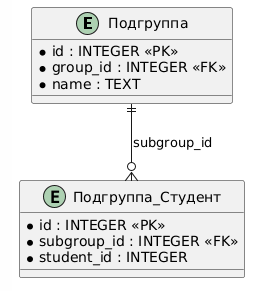
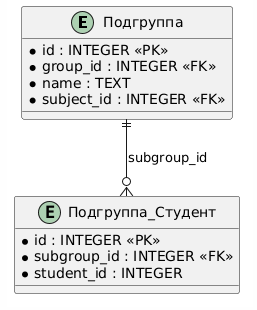
.

Changed region(s): [[0.0312, 0.0, 0.9688, 0.9588]]

diff --git a/S8/models.py b/S8/models.py
@@ -1,20 +1,16 @@
 """
-Модели для сервиса подгрупп (Subgroup Service) - Вариант №8
-Синхронизировано с doc.md (без subgroup_types, добавлена связь со студентами)
+Модели для сервиса подгрупп (Subgroup Service) — Политехнический колледж Кострома
+Связь с предметом (subject_id) для определения совместимости подгрупп в расписании
 """
 
 from peewee import *
 import os
 
-# Путь к файлу базы данных
 DB_PATH = 'subgroup_service.db'
-
-# Подключение к БД
 db = SqliteDatabase(DB_PATH)
 
 
 class BaseModel(Model):
-    """Базовый класс модели с подключением к БД"""
     class Meta:
         database = db
 
@@ -22,35 +18,35 @@ class BaseModel(Model):
 class Subgroup(BaseModel):
     """
     Модель подгруппы
-    Соответствует таблице 'subgroups' из doc.md
+    subject_id — внешний ключ к предмету (дисциплине)
     """
     id = AutoField()
-    name = CharField(verbose_name='Название подгруппы')  
-    group_id = IntegerField(verbose_name='ID группы')    # Внешний ключ к группе
+    group_id = IntegerField(verbose_name='ID группы')
+    name = CharField(verbose_name='Название подгруппы')
+    subject_id = IntegerField(verbose_name='ID предмета')  # ← вместо category
     
     class Meta:
         table_name = 'subgroups'
         indexes = (
-            (('group_id', 'name'), True),  # Уникальная комбинация (group_id, name)
+            (('group_id', 'name'), True),
         )
     
     def __str__(self):
-        return f"Подгруппа {self.name} (группа {self.group_id})"
+        return f"Подгруппа {self.name} (предмет {self.subject_id}) - группа {self.group_id}"
 
 
 class SubgroupStudent(BaseModel):
     """
     Модель связи подгруппы и студента
-    Соответствует таблице 'subgroup_students' из doc.md
     """
     id = AutoField()
-    subgroup_id = IntegerField(verbose_name='ID подгруппы')  # Внешний ключ к Subgroup
-    student_id = IntegerField(verbose_name='ID студента')    # Внешний ключ к Student
+    subgroup_id = IntegerField(verbose_name='ID подгруппы')
+    student_id = IntegerField(verbose_name='ID студента')
     
     class Meta:
         table_name = 'subgroup_students'
         indexes = (
-            (('subgroup_id', 'student_id'), True),  # Уникальная пара подгруппа-студент
+            (('subgroup_id', 'student_id'), True),
         )
     
     def __str__(self):
@@ -58,55 +54,35 @@ class SubgroupStudent(BaseModel):
 
 
 def init_db():
-    """
-    Функция инициализации базы данных
-    Создаёт таблицы, если они не существуют
-    """
     try:
-        # Подключаемся к БД
         db.connect()
-        
-        # Создаём таблицы (только Subgroup и SubgroupStudent)
         db.create_tables([Subgroup, SubgroupStudent], safe=True)
-        
         print(f"✅ База данных '{DB_PATH}' успешно инициализирована")
         print(f"   - Создана таблица: {Subgroup._meta.table_name}")
         print(f"   - Создана таблица: {SubgroupStudent._meta.table_name}")
-        
     except Exception as e:
         print(f"❌ Ошибка при инициализации БД: {e}")
     finally:
-        # Закрываем соединение
         if not db.is_closed():
             db.close()
 
 
 def get_db_connection():
-    """
-    Возвращает подключение к БД для использования в API
-    """
     if db.is_closed():
         db.connect()
     return db
 
 
 def close_db_connection():
-    """
-    Закрывает подключение к БД
-    """
     if not db.is_closed():
         db.close()
 
 
-# Точка входа
 if __name__ == '__main__':
-    """
-    Точка входа: вызывается при запуске файла напрямую
-    """
     print("=" * 50)
-    print("Инициализация базы данных для сервиса подгрупп (вариант №8)")
+    print("Инициализация БД для сервиса подгрупп (Политехнический колледж Кострома)")
     print("=" * 50)
     init_db()
     print("=" * 50)
-    print("✅ Готово! База данных инициализирована.")
+    print("✅ Готово!")
     print("=" * 50)

diff --git a/S8/doc.md b/S8/doc.md
@@ -1,4 +1,4 @@
-# Вариант №8. Сервис подгрупп (Subgroup Service)
+# Вариант №8. Сервис подгрупп (Subgroup Service) 
 
 ## 1. Создать подгруппу
 **POST** `/subgroups`
@@ -9,6 +9,7 @@
 |----------|---------------|-----|-------------|
 | name | Обязательно | Строка | - |
 | group_id | Обязательно | Целое | Внешний ключ к группе |
+| subject_id | Обязательно | Целое | Внешний ключ к предмету |
 
 **Уникальная комбинация:** `(group_id, name)`
 
@@ -19,6 +20,7 @@
 | id | Целое |
 | name | Строка |
 | group_id | Целое |
+| subject_id | Целое |
 
 ---
 
@@ -29,7 +31,8 @@
 
 | Параметр | Обязательность | Тип | Ограничение |
 |----------|---------------|-----|-------------|
-| name | Обязательно | Строка | - |
+| name | Опционально | Строка | - |
+| subject_id | Опционально | Целое | Внешний ключ к предмету |
 
 **Выходные данные:**
 
@@ -38,6 +41,7 @@
 | id | Целое |
 | name | Строка |
 | group_id | Целое |
+| subject_id | Целое |
 
 ---
 
@@ -58,6 +62,7 @@
 | id | Целое |
 | name | Строка |
 | group_id | Целое |
+| subject_id | Целое |
 
 ---
 
@@ -69,7 +74,8 @@
 | Параметр | Тип | Обязательность | Описание |
 |----------|-----|---------------|----------|
 | group_id | Целое | Обязательно | Фильтр по группе |
-| name | Строка | Обязательно | Фильтр по имени  |
+| name | Строка | Опционально | Фильтр по имени |
+| subject_id | Целое | Опционально | Фильтр по предмету |
 
 **Выходные данные (массив объектов):**
 
@@ -78,6 +84,7 @@
 | id | Целое |
 | name | Строка |
 | group_id | Целое |
+| subject_id | Целое |
 
 ---
 